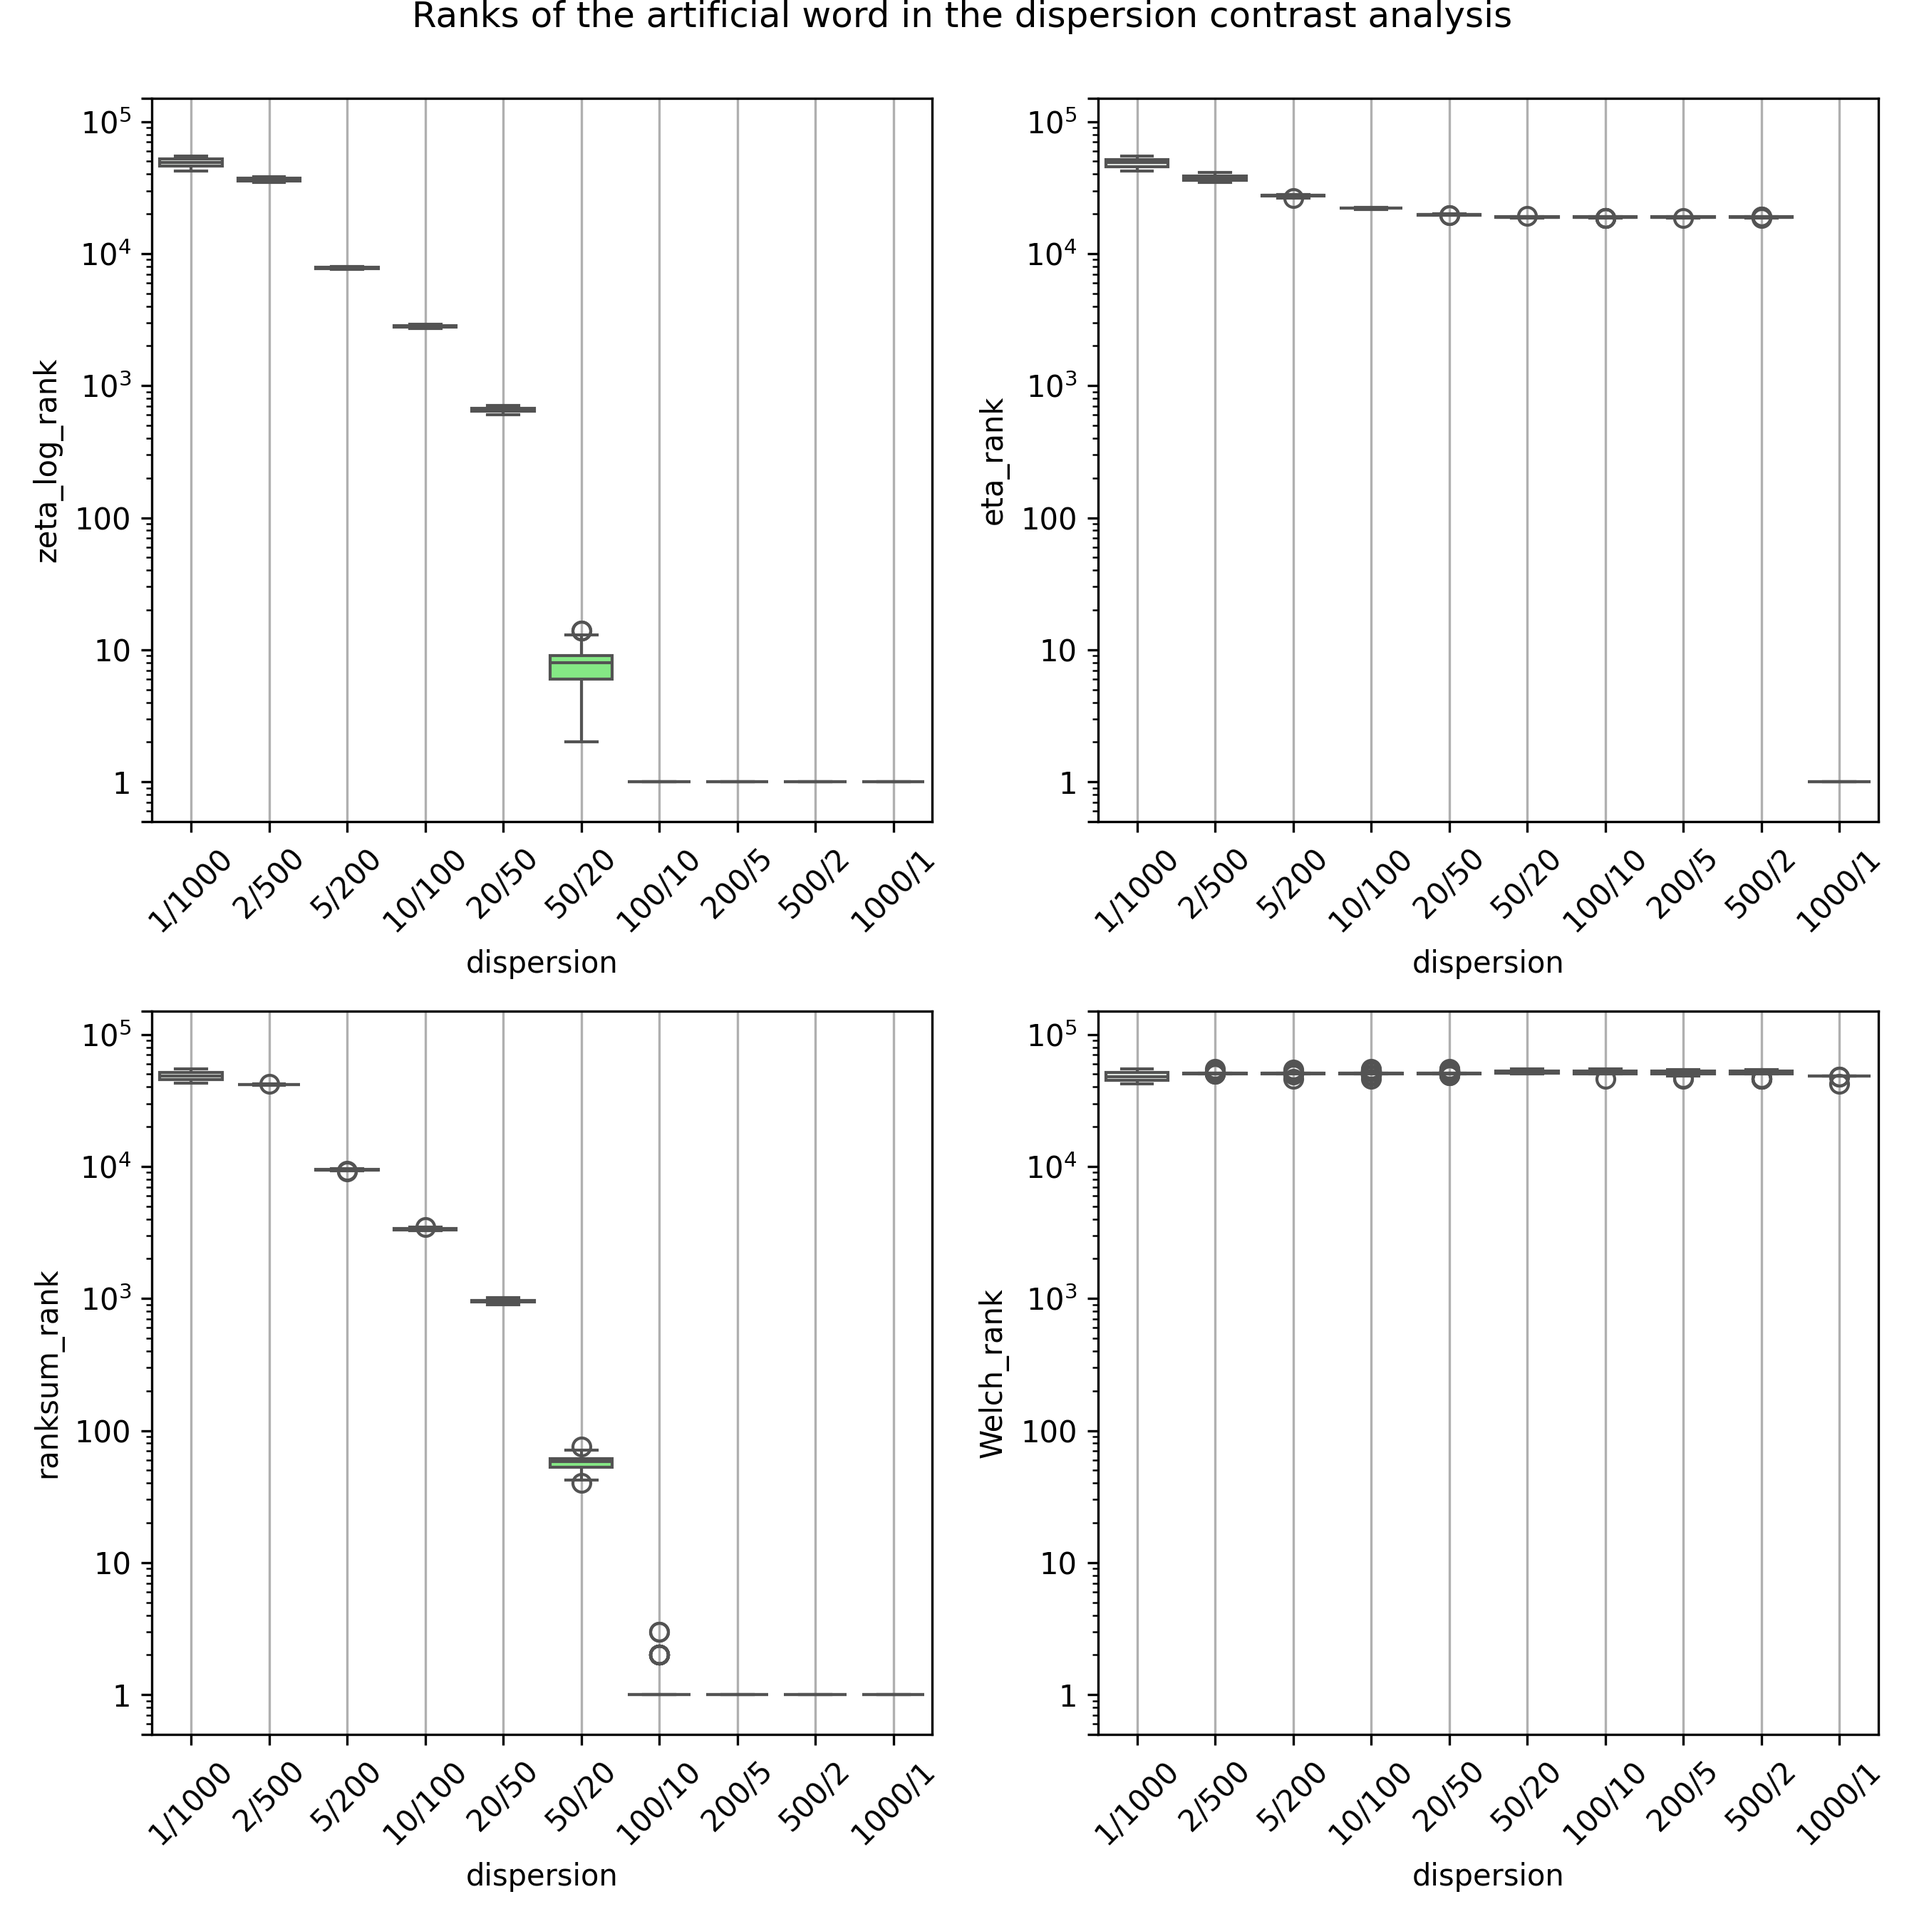
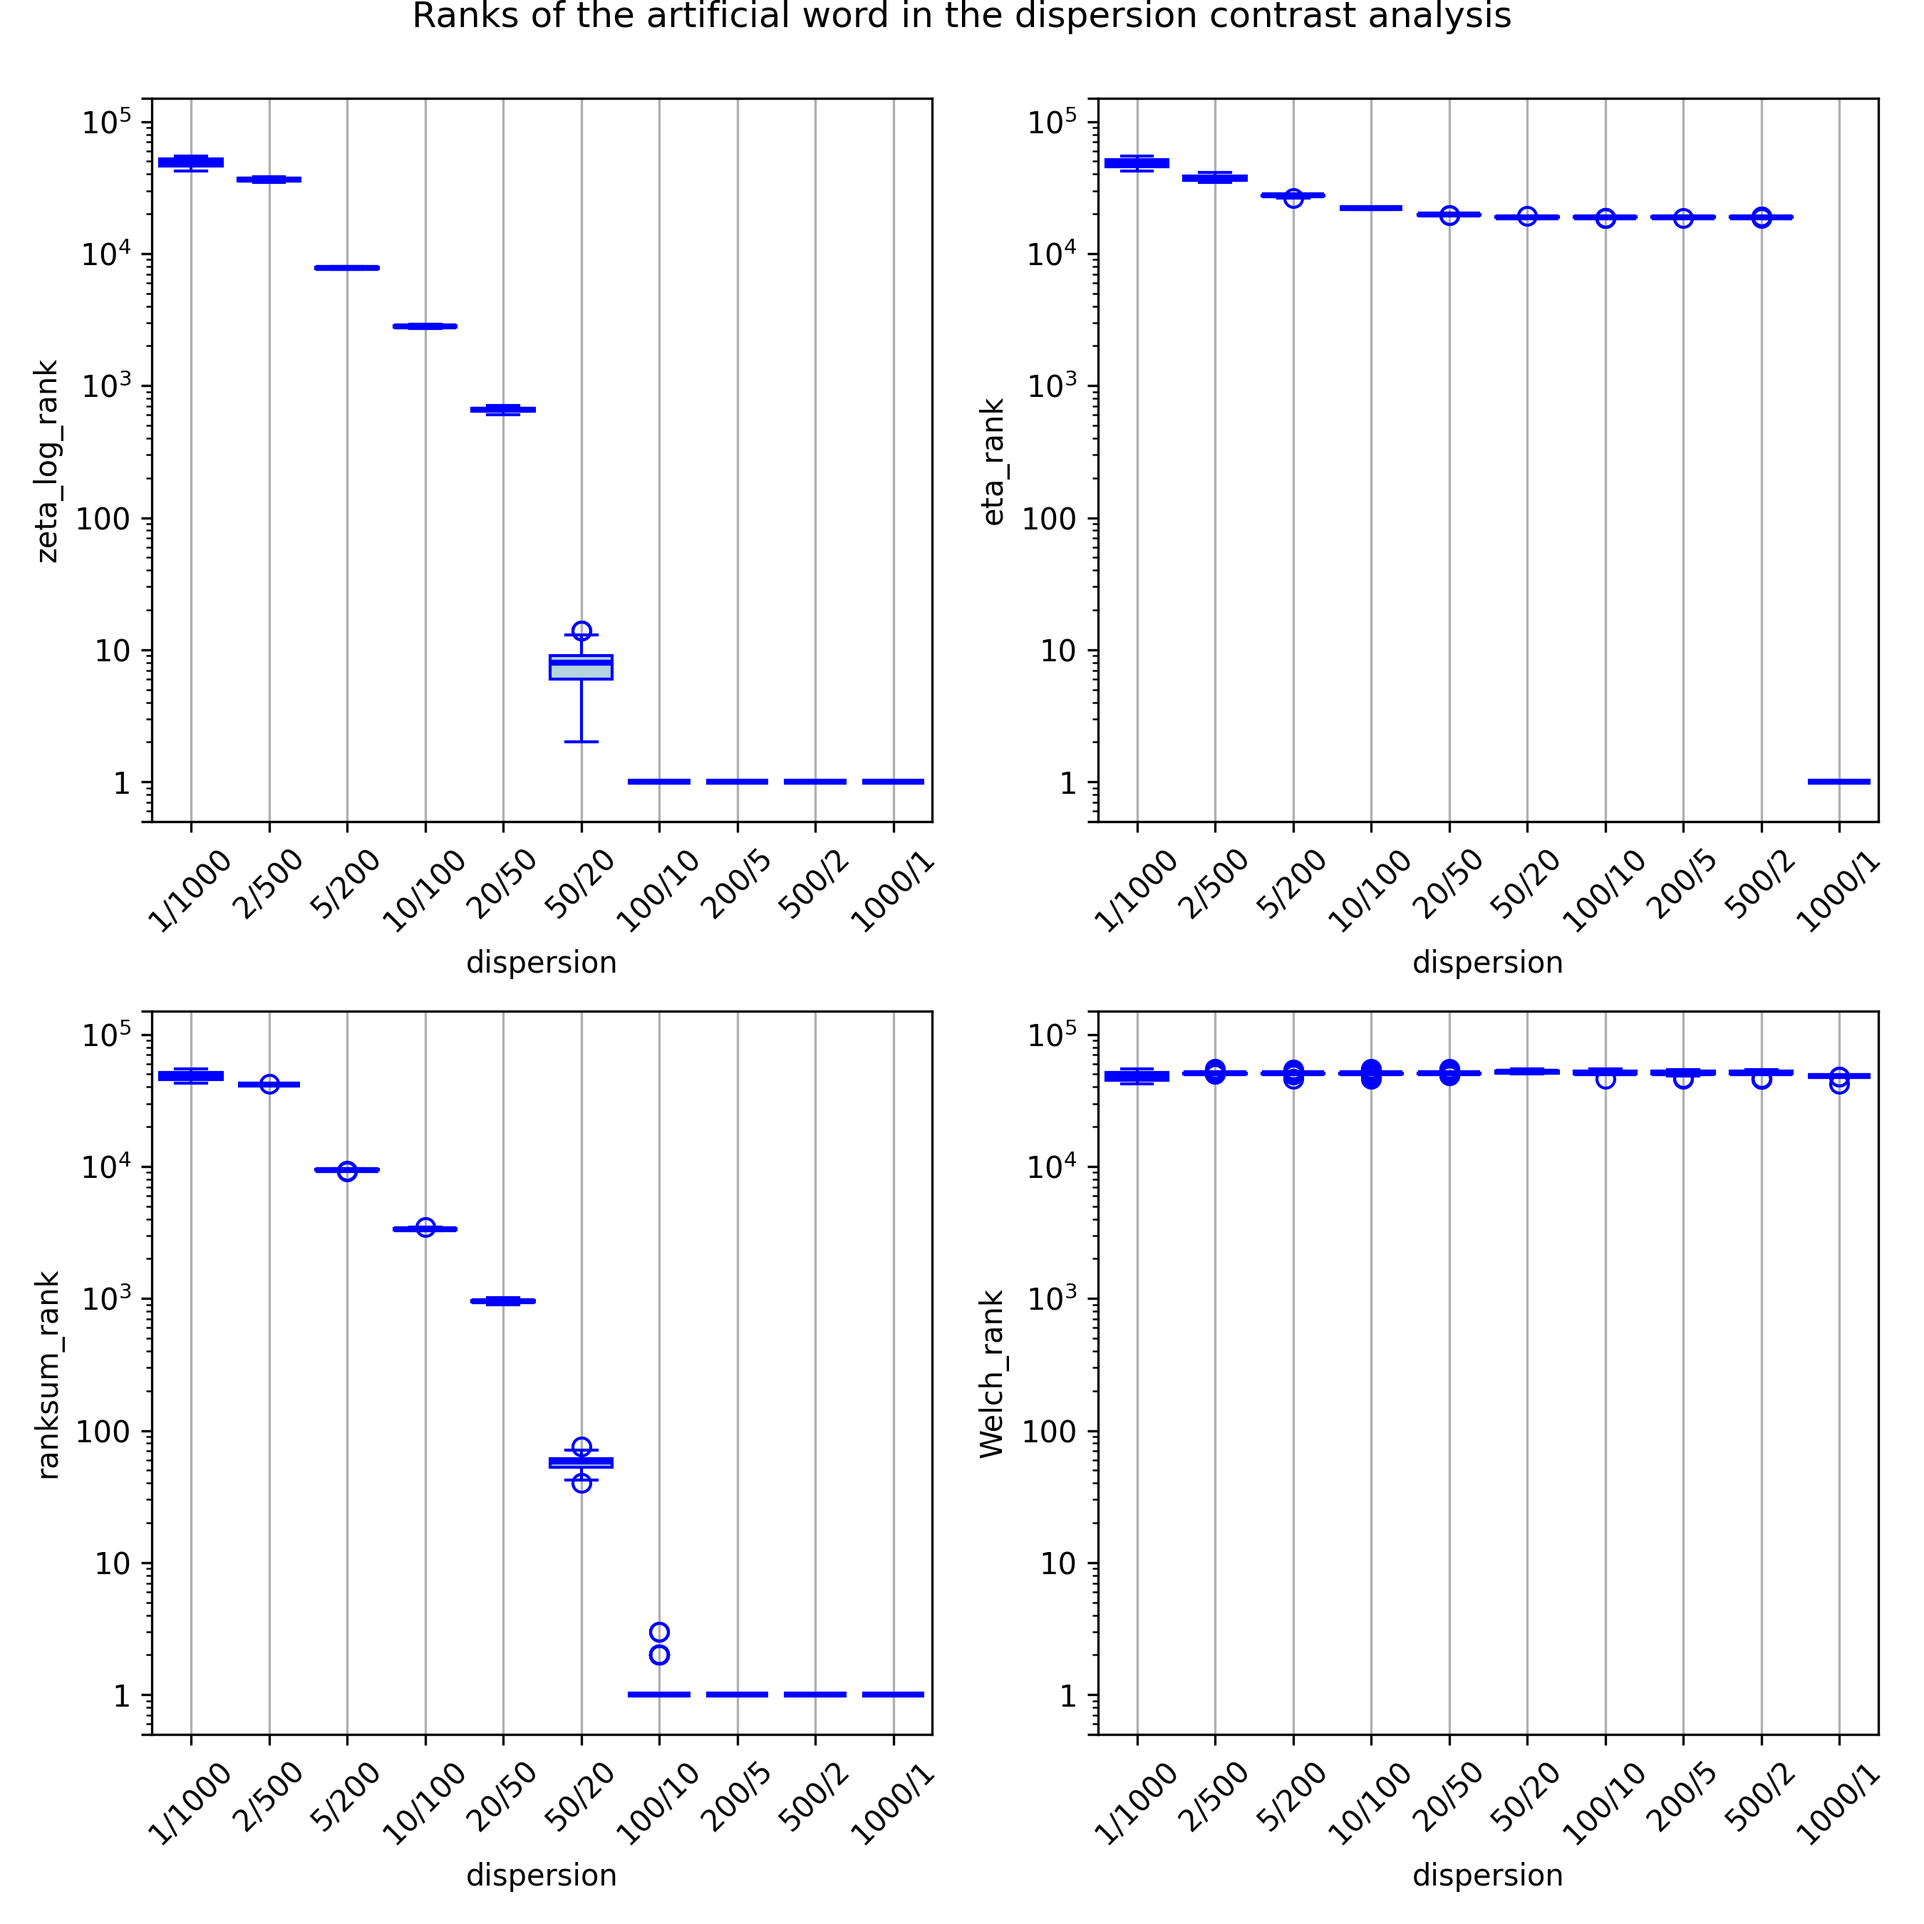
update visuals: colors

diff --git a/scripts/4_make-2x2-plots.py b/scripts/4_make-2x2-plots.py
@@ -23,10 +23,10 @@ group = "dispersion_1s-1000f"
 groupindex = re.split("_", group)[0]
 
 ## Select plot file name 
-#plotfilename = "fig-2_frequency_groupA.png"
-#plotfilename = "fig-3_frequency_groupB.png"
-#plotfilename = "fig-4_dispersion_groupA.png"
-plotfilename = "fig-5_dispersion_groupB.png"
+#plotfilename = "fig-2_frequency_groupB.png"
+#plotfilename = "fig-3_frequency_groupA.png"
+#plotfilename = "fig-4_dispersion_groupB.png"
+plotfilename = "fig-5_dispersion_groupA.png"
 
 
 # Define the result files and corresponding rank columns; select 4 per plot! 
@@ -64,7 +64,7 @@ dfs = {
 }
 
 # Set up the plot
-mypalette = sns.light_palette("lime", as_cmap=False, n_colors=11)
+#mypalette = sns.light_palette("lime", as_cmap=False, n_colors=11)
 fig, axes = plt.subplots(2, 2, figsize=(9, 9), dpi=300)
 
 # Plot each data set
@@ -92,7 +92,13 @@ for df, rank_col, ax in plot_params:
         data=df, 
         hue=groupindex, 
         legend=False, 
-        palette=mypalette, 
+        palette=["lightblue"],
+        boxprops=dict(edgecolor="blue"),
+        whiskerprops=dict(color="blue"),
+        capprops=dict(color="blue"),
+        medianprops=dict(color="blue", linewidth=2),
+        flierprops=dict(marker='o', markerfacecolor='none', markeredgecolor='blue'),
+        #palette=mypalette, 
         ax=ax,        
         )
     
